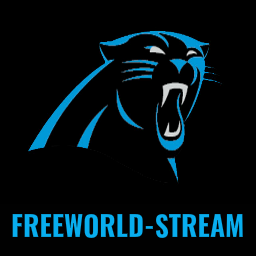
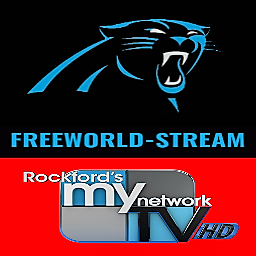
upload

diff --git a/default.py b/default.py
@@ -60,10 +60,10 @@ if os.path.exists(favorites)==True:
     FAV = open(favorites).read()
 else: FAV = []
 
-SOURCES = [{"title": "SOLOMAN-IPTV ", "url": "http://pastebin.com/raw/VzSyc0tu", "fanart": "http://2.bp.blogspot.com/-WXtfUJi3AMw/U0RLC0dBpbI/AAAAAAAANcM/eAQulKgz3MQ/s1600/mntv_logsp02-3DCD-02_0004b.jpg", "GENERO": "IPTV ", "date": "01/21/2016", "credits": "SOLOMAN", "thumbnail": "https://upload.wikimedia.org/wikipedia/en/6/6f/My_Network_TV_Logo_3D.png"}]
+SOURCES = [{"title": "freeworld-stream ", "url": "http://pastebin.com/raw/VzSyc0tu", "fanart": "http://s3.amazonaws.com/fotor.cdn/share.url/1f5c9f199ef34004aa3cd24dddf284ce.jpeg", "GENERO": "LIVE STREAM ", "date": "01/21/2016", "credits": "SOLOMAN", "thumbnail": "http://s3.amazonaws.com/fotor.cdn/share.url/4d94114af3e14e7a8952817e6323e271.jpeg"}]
 
-# http://2.bp.blogspot.com/-WXtfUJi3AMw/U0RLC0dBpbI/AAAAAAAANcM/eAQulKgz3MQ/s1600/mntv_logsp02-3DCD-02_0004b.jpg
-# https://upload.wikimedia.org/wikipedia/en/6/6f/My_Network_TV_Logo_3D.png
+# http://s3.amazonaws.com/fotor.cdn/share.url/1f5c9f199ef34004aa3cd24dddf284ce.jpeg
+# http://s3.amazonaws.com/fotor.cdn/share.url/4d94114af3e14e7a8952817e6323e271.jpeg
 
 """
 if os.path.exists(source_file)==True:
